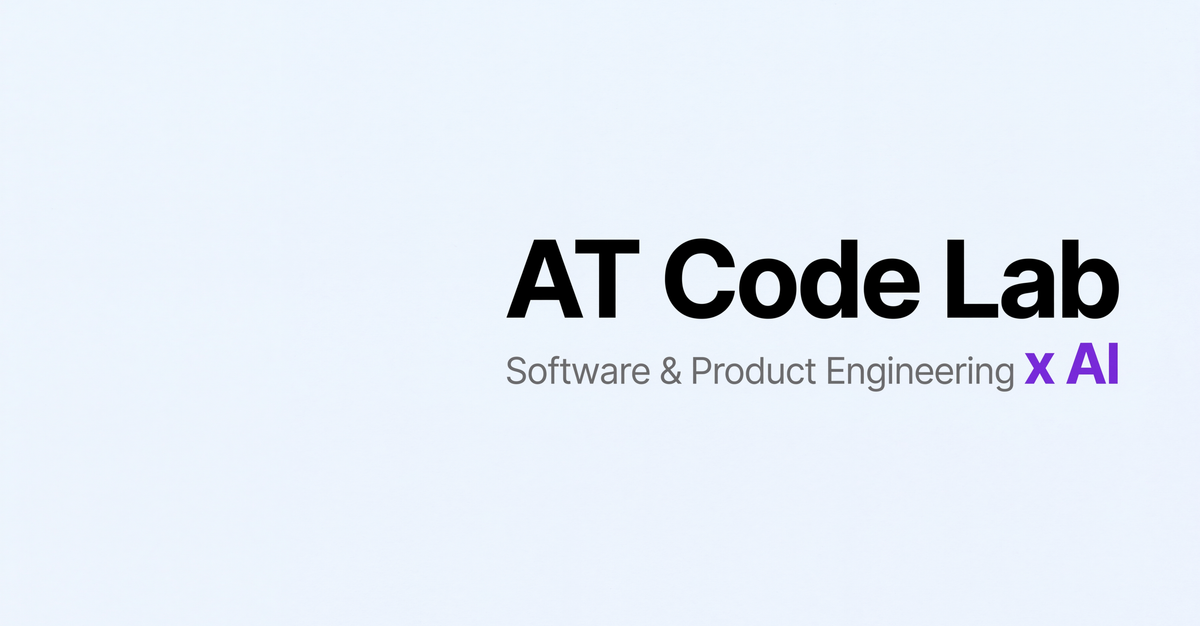
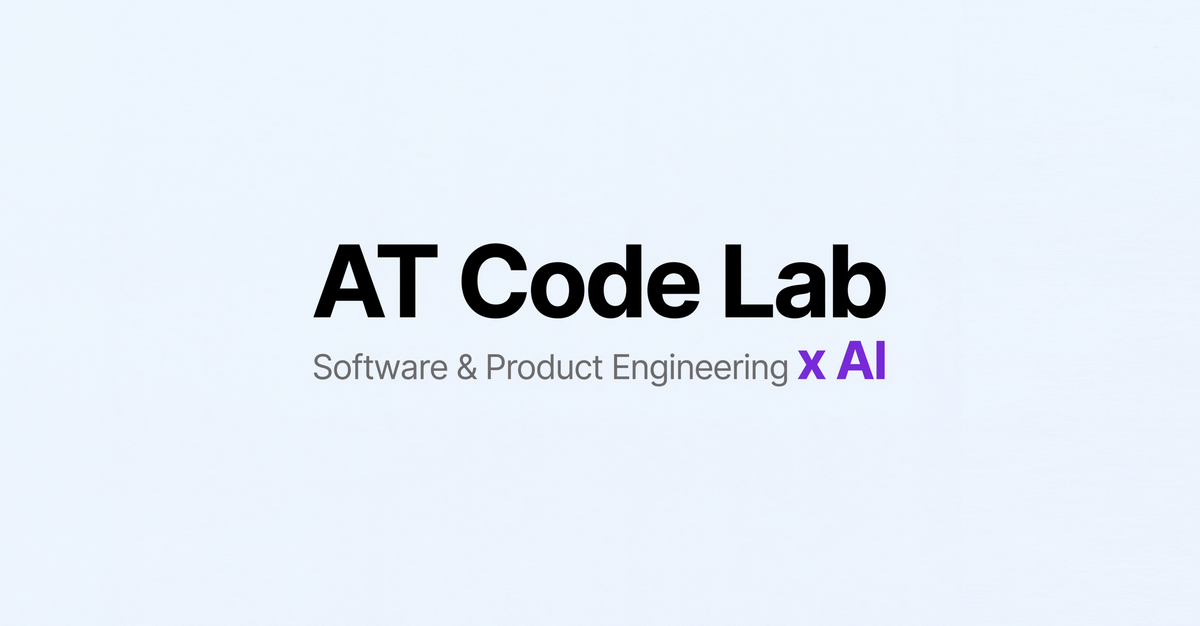
:lipstick: center the text in the share image

Changed region(s): [[0.2467, 0.3642, 0.9558, 0.516], [0.2467, 0.5463, 0.9558, 0.6374]]

diff --git a/CLAUDE.md b/CLAUDE.md
@@ -59,8 +59,9 @@ pnpm test:all            # Unit + E2E
   and other pages go through `metadata.title.template` in `config.yaml` (`'%s — AT Code Lab'`). Descriptions,
   `openGraph.site_name` and the footer copyright keep "Aurélien Tondoux". Guarded by `e2e/i18n.spec.ts`.
 - The link-preview image (`og:image`) is `src/assets/images/og-default.png`, set in `config.yaml` `metadata.openGraph.images`
-  and used by every page (none overrides it). It is the LinkedIn banner (`brand/AT_code_lab_banner.png`) cover-cropped
-  with Sharp to 1200×626, because `adaptOpenGraphImages` (`src/utils/images.ts`) always re-encodes it to a 1200×626 JPG
+  and used by every page (none overrides it). It is the LinkedIn banner (`brand/AT_code_lab_banner.png`) with its text
+  recentered (the banner keeps the left side free for the LinkedIn photo: its text-free right edge is stretched to widen
+  the canvas until the text block sits in the middle) and cover-cropped with Sharp to 1200×626, because `adaptOpenGraphImages` (`src/utils/images.ts`) always re-encodes it to a 1200×626 JPG
   and would crop any other ratio a second time. The template's `default.png` (an AstroWind screenshot) was removed.
   There is no `twitter:image` tag: X falls back to `og:image`, and `twitter:card` is `summary_large_image`.
   Guarded by `e2e/share-image.spec.ts`. Social sites cache previews, so refresh them with LinkedIn Post Inspector.
